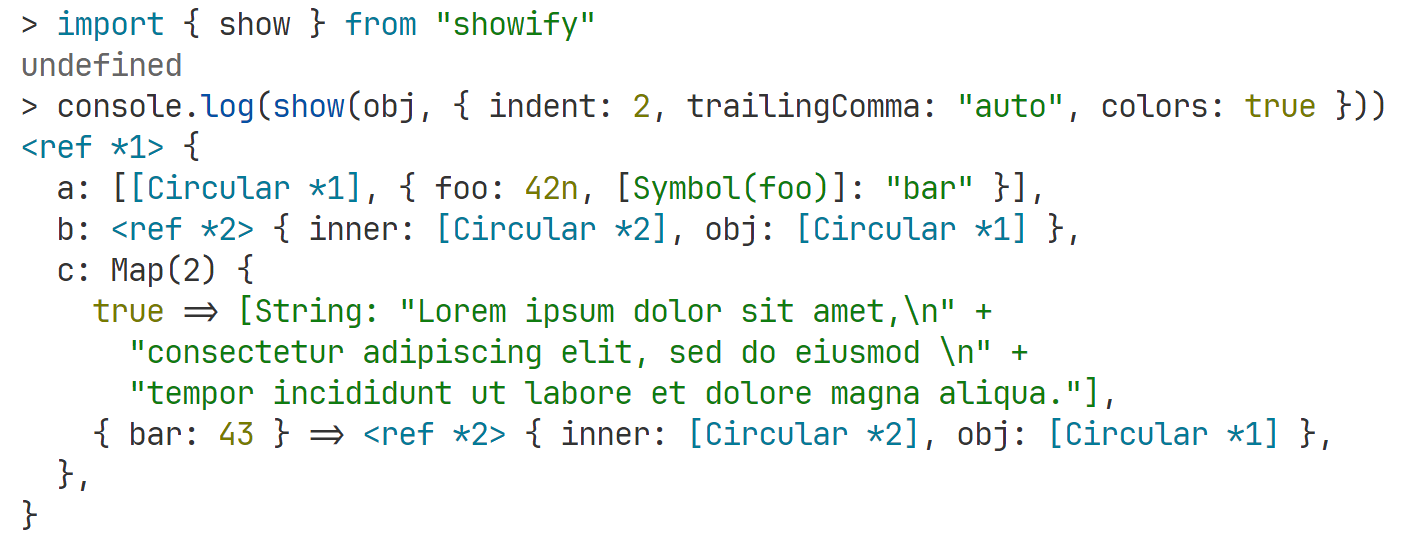
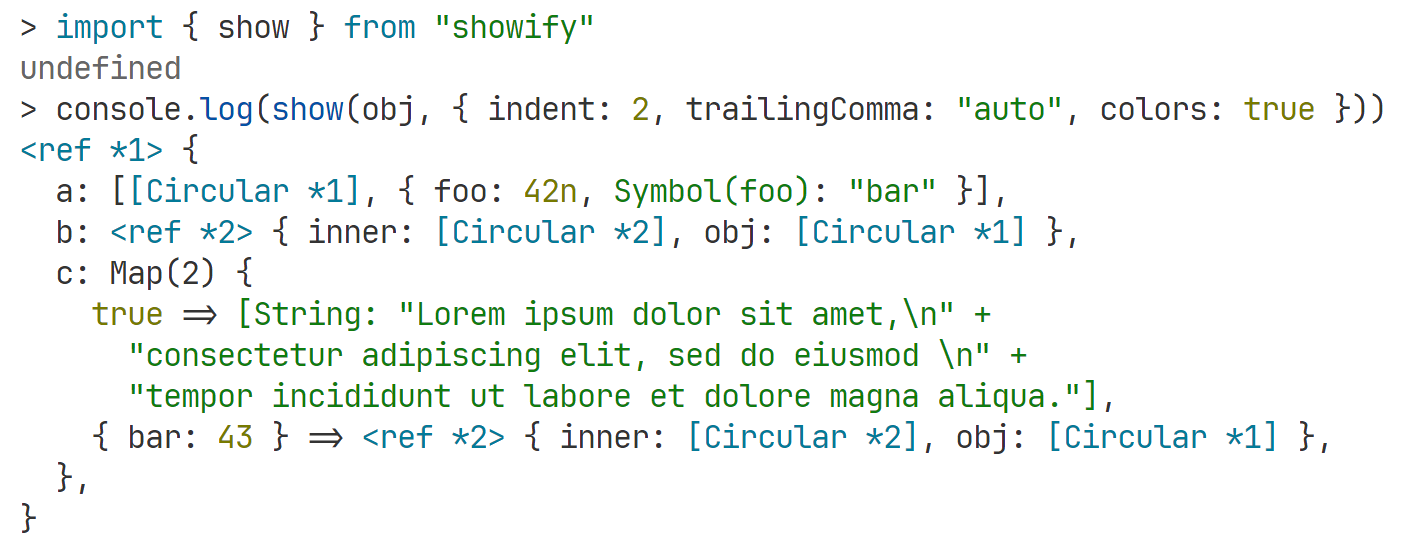
✨ feat!: Remove brackets around symbol keys to align with Node.js 24
Remove brackets around symbol keys in objects to align with the new `util.inspect` behavior in Node.js 24.

diff --git a/packages/lite/test/circular.spec.ts b/packages/lite/test/circular.spec.ts
@@ -19,7 +19,7 @@ describe("Circular reference", () => {
     expect(show(circular, { indent: 2 })).toEqual(
       trimIndent(`
         <ref *1> {
-          a: [[Circular *1], { foo: 42n, [Symbol(foo)]: true }],
+          a: [[Circular *1], { foo: 42n, Symbol(foo): true }],
           b: <ref *2> { inner: [Circular *2], obj: [Circular *1] },
           c: Map(2) {
             { bar: 43 } => "baz",
@@ -31,7 +31,7 @@ describe("Circular reference", () => {
     expect(show(circular, { indent: 2, trailingComma: "auto" })).toEqual(
       trimIndent(`
         <ref *1> {
-          a: [[Circular *1], { foo: 42n, [Symbol(foo)]: true }],
+          a: [[Circular *1], { foo: 42n, Symbol(foo): true }],
           b: <ref *2> { inner: [Circular *2], obj: [Circular *1] },
           c: Map(2) {
             { bar: 43 } => "baz",
@@ -46,7 +46,7 @@ describe("Circular reference", () => {
     expect(show(circular, { indent: 2, referencePointer: false, trailingComma: "always" })).toEqual(
       trimIndent(`
         {
-          a: [[Circular], { foo: 42n, [Symbol(foo)]: true, },],
+          a: [[Circular], { foo: 42n, Symbol(foo): true, },],
           b: { inner: [Circular], obj: [Circular], },
           c: Map(2) {
             { bar: 43, } => "baz",

diff --git a/test/circular.spec.ts b/test/circular.spec.ts
@@ -21,7 +21,7 @@ describe("Circular reference", () => {
     expect(show(circular, { indent: 2 })).toEqual(
       trimIndent(`
         <ref *1> {
-          a: [[Circular *1], { foo: 42n, [Symbol(foo)]: true }],
+          a: [[Circular *1], { foo: 42n, Symbol(foo): true }],
           b: <ref *2> { inner: [Circular *2], obj: [Circular *1] },
           c: Map(2) {
             { bar: 43 } => "baz",
@@ -33,7 +33,7 @@ describe("Circular reference", () => {
     expect(show(circular, { indent: 2, trailingComma: "auto" })).toEqual(
       trimIndent(`
         <ref *1> {
-          a: [[Circular *1], { foo: 42n, [Symbol(foo)]: true }],
+          a: [[Circular *1], { foo: 42n, Symbol(foo): true }],
           b: <ref *2> { inner: [Circular *2], obj: [Circular *1] },
           c: Map(2) {
             { bar: 43 } => "baz",
@@ -49,7 +49,7 @@ describe("Circular reference", () => {
     expect(show(circular, { indent: 2, referencePointer: false, trailingComma: "always" })).toEqual(
       trimIndent(`
         {
-          a: [[Circular], { foo: 42n, [Symbol(foo)]: true, },],
+          a: [[Circular], { foo: 42n, Symbol(foo): true, },],
           b: { inner: [Circular], obj: [Circular], },
           c: Map(2) {
             { bar: 43, } => "baz",

diff --git a/test/object.spec.ts b/test/object.spec.ts
@@ -55,7 +55,7 @@ describe("Object", () => {
       [sym2]: 2,
     };
 
-    expect(show(obj)).toEqual("{ [Symbol(test1)]: 1, [Symbol(test2)]: 2 }");
+    expect(show(obj)).toEqual("{ Symbol(test1): 1, Symbol(test2): 2 }");
     expect(inspect(obj)).toEqual(util.inspect(obj));
     expect(inspect(obj, { colors: true })).toEqual(util.inspect(obj, { colors: true }));
   });
@@ -215,7 +215,7 @@ describe("Object", () => {
     };
 
     expect(show(obj, { sorted: true })).toEqual(
-      "{ [Symbol(sym)]: 0, [Symbol(sym)]: 0, a: 1, b: [Getter], c: 3 }",
+      "{ Symbol(sym): 0, Symbol(sym): 0, a: 1, b: [Getter], c: 3 }",
     );
     expect(inspect(obj, { sorted: true })).toEqual(util.inspect(obj, { sorted: true }));
     expect(inspect(obj, { sorted: true, colors: true })).toEqual(
@@ -345,7 +345,7 @@ describe("Object", () => {
         '       "Hello\\nworld": [-0, 2n, NaN],\n' +
         '       map: Map(2) { "foo" => Box< "bar" >, { bar: 42 } => "qux" },\n' +
         "       circular: [Circular *1],\n" +
-        '       [Symbol(qux)]: { quux: "corge" }\n' +
+        '       Symbol(qux): { quux: "corge" }\n' +
         "     } >",
     );
     expect(inspect(box)).toEqual(util.inspect(box));

diff --git a/packages/lite/test/object.spec.ts b/packages/lite/test/object.spec.ts
@@ -52,7 +52,7 @@ describe("Object", () => {
       [sym2]: 2,
     };
 
-    expect(show(obj)).toEqual("{ [Symbol(test1)]: 1, [Symbol(test2)]: 2 }");
+    expect(show(obj)).toEqual("{ Symbol(test1): 1, Symbol(test2): 2 }");
     expect(inspect(obj)).toEqual(util.inspect(obj));
   });
 
@@ -197,7 +197,7 @@ describe("Object", () => {
     };
 
     expect(show(obj, { sorted: true })).toEqual(
-      "{ [Symbol(sym)]: 0, [Symbol(sym)]: 0, a: 1, b: [Getter], c: 3 }",
+      "{ Symbol(sym): 0, Symbol(sym): 0, a: 1, b: [Getter], c: 3 }",
     );
     expect(inspect(obj, { sorted: true })).toEqual(util.inspect(obj, { sorted: true }));
   });
@@ -317,7 +317,7 @@ describe("Object", () => {
         '       "Hello\\nworld": [-0, 2n, NaN],\n' +
         '       map: Map(2) { "foo" => Box< "bar" >, { bar: 42 } => "qux" },\n' +
         "       circular: [Circular *1],\n" +
-        '       [Symbol(qux)]: { quux: "corge" }\n' +
+        '       Symbol(qux): { quux: "corge" }\n' +
         "     } >",
     );
     expect(inspect(box)).toEqual(util.inspect(box));

diff --git a/src/index.ts b/src/index.ts
@@ -245,7 +245,7 @@ export function serializer(serializer: Serializer): Serializer {
  * //   "Hello\nworld": [-0, 2n, NaN],
  * //   map: Map(2) { "foo" => "bar", { bar: 42 } => "qux" },
  * //   circular: [Circular *1],
- * //   [Symbol(qux)]: { quux: "corge" },
+ * //   Symbol(qux): { quux: "corge" },
  * // }
  * ```
  */
@@ -813,7 +813,7 @@ function buildTree(
 
         let keyDisplay =
           // Symbol keys should be wrapped with `[]`
-          typeof key === "symbol" ? `[${c.symbol(key.toString())}]`
+          typeof key === "symbol" ? c.symbol(key.toString())
             // Always quote keys if `quoteKeys` is set to `"always"`
           : quoteKeys === "always" ? c.string(stringifyString(key, quoteStyle))
             // For string keys that are valid identifiers, we should show them as is

diff --git a/packages/lite/src/index.ts b/packages/lite/src/index.ts
@@ -187,7 +187,7 @@ export function serializer(serializer: Serializer): Serializer {
  * //   "Hello\nworld": [-0, 2n, NaN],
  * //   map: Map(2) { "foo" => "bar", { bar: 42 } => "qux" },
  * //   circular: [Circular *1],
- * //   [Symbol(qux)]: { quux: "corge" },
+ * //   Symbol(qux): { quux: "corge" },
  * // }
  * ```
  */
@@ -680,7 +680,7 @@ function buildTree(
 
         let keyDisplay =
           // Symbol keys should be wrapped with `[]`
-          typeof key === "symbol" ? `[${key.toString()}]`
+          typeof key === "symbol" ? key.toString()
             // Always quote keys if `quoteKeys` is set to `"always"`
           : quoteKeys === "always" ? stringifyString(key, quoteStyle)
             // For string keys that are valid identifiers, we should show them as is

diff --git a/README.md b/README.md
@@ -58,7 +58,7 @@ console.log(show(value, { indent: 2, trailingComma: "auto", colors: true }));
 //   "Hello\nworld": [-0, 2n, NaN],
 //   map: Map(2) { "foo" => "bar", { bar: 42 } => "qux" },
 //   circular: [Circular *1],
-//   [Symbol(qux)]: { quux: "corge" },
+//   Symbol(qux): { quux: "corge" },
 // }
 ```
 
@@ -143,7 +143,7 @@ Aside from the features listed above, **showify** also supports many more specia
 - **Break length:** **showify** tries to break lines exactly at `breakLength` characters, while `util.inspect` may break lines at slightly different positions due to a different algorithm for calculating the break position.
 - **Array break:** When breaking arrays, **showify** always places one element per line, while `util.inspect` might place multiple elements on a single line, e.g., `[\n 1, 2, 3, 4, 5,\n 6, 7, 8, 9, 10\n]`.
 - **Circular reference pointer:** **showify** always displays a reference pointer when the same object is referenced, while `util.inspect` does not always do so if the same object is referenced multiple times.
-- **`Symbol.toStringTag`:** `util.inspect` shows `[Symbol(Symbol.toStringTag)]: "..."` for some objects (like generators and generator functions) when `showHidden` is `true`, even if `Symbol.toStringTag` is not an own property of the object. **showify** does not show this in such cases.
+- **`Symbol.toStringTag`:** `util.inspect` shows `Symbol(Symbol.toStringTag): "..."` for some objects (like generators and generator functions) when `showHidden` is `true`, even if `Symbol.toStringTag` is not an own property of the object. **showify** does not show this in such cases.
 
 ### A complete list of rules for stringifying JavaScript values
 
@@ -203,8 +203,8 @@ Aside from the features listed above, **showify** also supports many more specia
 **Regular objects:**
 
 - **Module:** `Module` objects are displayed as `[Module]` if its `[[Prototype]]` is not null, or `[Module: null prototype]` otherwise.
-- **Object:** Other objects are displayed as `{ key: value1, "non identifier key": value2, [Symbol(id)]: value3, ... }`. `${className}` is displayed if it’s not `"Object"` and no prefix is already defined, e.g., `MyClass { key1: value1, key2: value2, ... }`. Objects with a null `[[Prototype]]` are displayed as `[Object: null prototype]`.
-- **Object keys:** String keys are displayed as `key` if they are valid identifiers, or `"key"` otherwise. Symbol keys are displayed as `[Symbol(key)]`. If a key is non-enumerable, it is displayed as `[key]` (NOTE: non-enumerable keys are only displayed if `showHidden` is not `"none"`).
+- **Object:** Other objects are displayed as `{ key: value1, "non identifier key": value2, Symbol(id): value3, ... }`. `${className}` is displayed if it’s not `"Object"` and no prefix is already defined, e.g., `MyClass { key1: value1, key2: value2, ... }`. Objects with a null `[[Prototype]]` are displayed as `[Object: null prototype]`.
+- **Object keys:** String keys are displayed as `key` if they are valid identifiers, or `"key"` otherwise. Symbol keys are displayed as `Symbol(key)`. If a key is non-enumerable, it is displayed as `[key]` (NOTE: non-enumerable keys are only displayed if `showHidden` is not `"none"`).
 - **Getter/Setter:** Getters and setters are displayed as `[Getter/Setter]`, `[Getter]`, or `[Setter]`. For example, `{ foo: [Getter/Setter], bar: [Getter] }`. If `getters` is not `"none"`, getters are further inspected, e.g., `{ foo: [Getter] { bar: "baz" } }`. Note that getters might throw an error, and in such cases, the error message is displayed if the thrown value is an object with a `message` property, e.g., `{ foo: [Getter: <Inspection threw (error message)>] }`.
 
 ### Available Options
